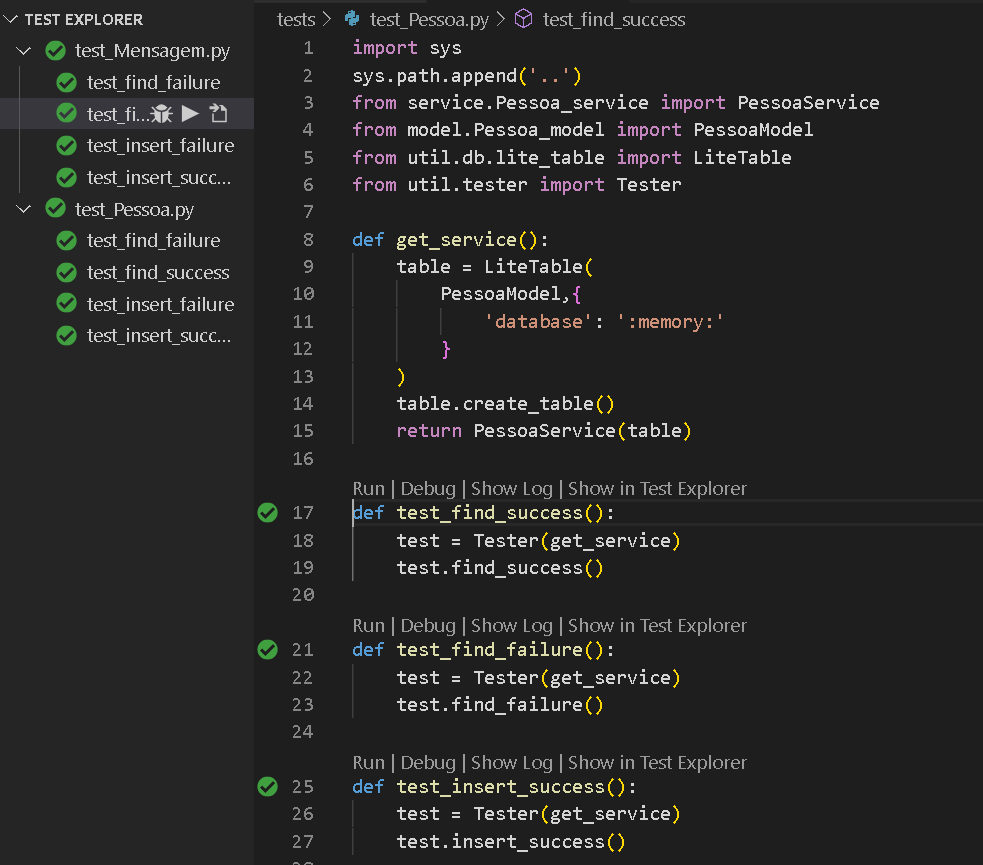
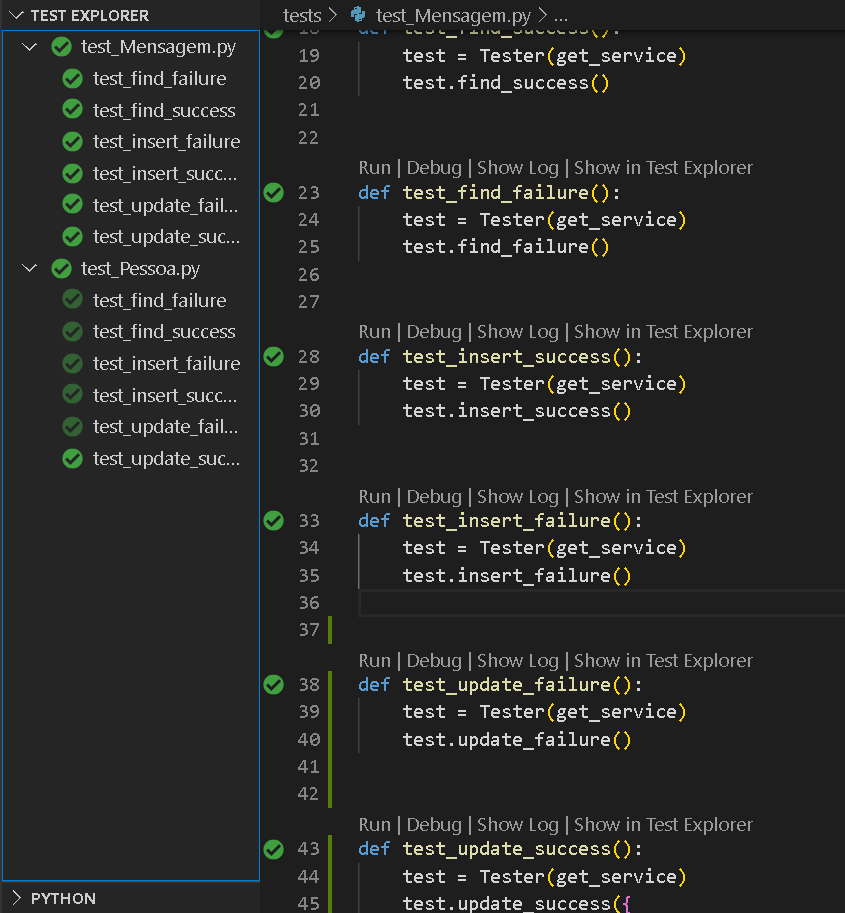
Incluindo update nos testes unitarios

diff --git a/backend/util/tester.py b/backend/util/tester.py
@@ -47,3 +47,25 @@ class Tester:
         service = self.callback()
         status_code = service.insert({})[1]
         assert status_code == 400
+
+    def update_success(self, expected):
+
+        def equal_values(data, expected):
+            for key, value in expected.items():
+                if data[key] != value:
+                    return False
+            return True
+        service = self.callback()
+        data = add_record(service)[0]['data']
+        for key, value in expected.items():
+            data[key] = value
+        assert service.update(data)[1] == 200
+        key = service.table.pk_fields[0]
+        msg, status_code = service.find(None, data[key])
+        assert status_code == 200
+        data = msg['data']
+        assert equal_values(data, expected)
+
+    def update_failure(self):
+        service = self.callback()
+        assert service.update({})[1] == 400

diff --git a/backend/service/Mensagem_service.py b/backend/service/Mensagem_service.py
@@ -44,13 +44,16 @@ class MensagemService:
 
     def update(self, json):
         logging.info('Alterando uma mensagem ...')
+        if 'id' not in json:
+            return resp_error('Dados incompletos')
         # --- Só permite alterar a situação da mensagem: ---
         json = {
             'id': json['id'],
             'situacao': json.get('situacao', 1)
         }
         # ---------------------------------------------------
-        self.table.update(json)
+        if not self.table.update(json):
+            return resp_error('Falha ao alterar Mensagem.')
         return resp_ok("Registro alterado OK!")
 
     def delete(self, id):

diff --git a/backend/tests/test_Pessoa.py b/backend/tests/test_Pessoa.py
@@ -1,5 +1,5 @@
 from service.Pessoa_service import PessoaService
-from model.Pessoa_model import PessoaModel
+from model.Pessoa_model import PessoaModel, PK_DEFAULT_VALUE
 from util.db.lite_table import LiteTable
 from util.tester import Tester
 
@@ -32,3 +32,18 @@ def test_insert_success():
 def test_insert_failure():
     test = Tester(get_service)
     test.insert_failure()
+
+
+def test_update_failure():
+    test = Tester(get_service)
+    test.update_failure()
+
+
+def test_update_success():
+    test = Tester(get_service)
+    test.update_success({
+        'cpf_cnpj': PK_DEFAULT_VALUE,
+        'nome': 'Pessoa Teste'
+    })
+
+

diff --git a/backend/tests/test_Mensagem.py b/backend/tests/test_Mensagem.py
@@ -1,5 +1,5 @@
 from service.Mensagem_service import MensagemService
-from model.Mensagem_model import MensagemModel
+from model.Mensagem_model import MensagemModel, PK_DEFAULT_VALUE
 from util.db.lite_table import LiteTable
 from util.tester import Tester
 
@@ -33,3 +33,16 @@ def test_insert_success():
 def test_insert_failure():
     test = Tester(get_service)
     test.insert_failure()
+
+
+def test_update_failure():
+    test = Tester(get_service)
+    test.update_failure()
+
+
+def test_update_success():
+    test = Tester(get_service)
+    test.update_success({
+        'id': PK_DEFAULT_VALUE,
+        'situacao': 3
+    })

diff --git a/backend/model/Mensagem_model.py b/backend/model/Mensagem_model.py
@@ -9,12 +9,19 @@ def is_valid_date(value):
     return value >= today.date()
 
 
+PK_DEFAULT_VALUE = "M0"
+
+
 class MensagemModel(Schema):
-    id = Str(primary_key=True, default="000", required=True)
+    id = Str(
+        primary_key=True,
+        default=PK_DEFAULT_VALUE,
+        required=True
+    )
     data_hora = Date(validate=is_valid_date)
     tipo = Str()
     situacao = Integer(default=0)
     assunto = Str()
     conteudo = Str()
-    de = Nested(PessoaModel)
-    para = Nested(PessoaModel)
+    de = Nested(PessoaModel, required=True)
+    para = Nested(PessoaModel, required=True)

diff --git a/backend/service/Pessoa_service.py b/backend/service/Pessoa_service.py
@@ -40,9 +40,8 @@ class PessoaService:
 
     def update(self, json):
         logging.info('Alterando uma Pessoa ...')
-        errors = self.table.update(json)
-        if errors:
-            return resp_error(errors)
+        if not self.table.update(json):
+            return resp_error('Falha ao alterar Pessoa.')
         return resp_ok("Gravado OK!")
 
     def delete(self, cpf_cnpj):

diff --git a/backend/util/db/lite_table.py b/backend/util/db/lite_table.py
@@ -131,11 +131,11 @@ class LiteTable(FormatTable):
 
     def update(self, json_data):
         if not json_data:
-            return 'No data to update'
+            return False
         command = self.get_command(
             json_data,
             is_insert=False,
             use_quotes=False
         )
         self.execute(command, True)
-        return None
+        return True

diff --git a/backend/model/Pessoa_model.py b/backend/model/Pessoa_model.py
@@ -2,8 +2,15 @@ from marshmallow import Schema
 from marshmallow.fields import Str
 
 
+PK_DEFAULT_VALUE = "P0"
+
+
 class PessoaModel(Schema):
-    cpf_cnpj = Str(primary_key=True, default="000", required=True)
+    cpf_cnpj = Str(
+        primary_key=True,
+        default=PK_DEFAULT_VALUE,
+        required=True
+    )
     nome = Str()
     email = Str()
     celular = Str()

diff --git a/generator.py b/generator.py
@@ -144,7 +144,7 @@ class Generator:
         self.altera_situacao('M1', SITUACAO_ENVIADA)
         # 11
         self.consulta_msg({
-            'de': 'p1',
+            'de': 'P1',
             'situacao': SITUACAO_NAO_ENV,
             'esperado': ['M3']
         })

diff --git a/README.md b/README.md
@@ -56,6 +56,9 @@ As seguintes situações foram testadas para verificar se cada serviço está fu
 * Sucesso na busca: Retorna o registro relacionado ao campo chave usado na busca;
 * Falha de inclusão: Não permite registro com campos inválidos;
 * Sucesso na inclusão: Simula a gravação de um registro e retorna sem erros;
+* Falha na alteração: Não permite registro com campos inválidos;
+* Sucesso na alteração: Altera o registro, localiza ele no banco de dados e compara com o esperado.
+
 
 ![](./doc/testes_unitarios.png)
 
